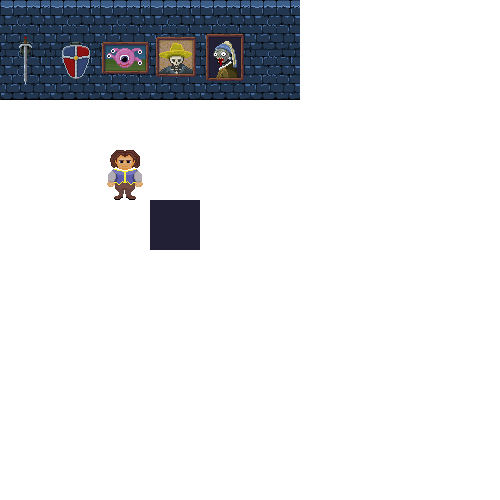
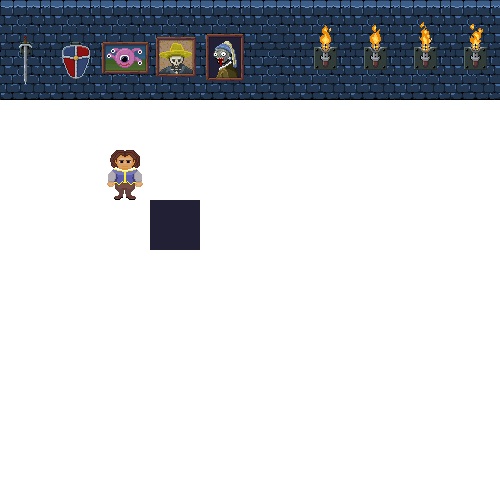
art: animated torch, code: add tile animation support

Changed region(s): [[0.6, 0.0, 1.0, 0.21]]

diff --git a/js/World.js b/js/World.js
@@ -9,8 +9,8 @@ var roomGrid =
   11,31,31,36,31, 0, 0, 0, 4,31,31,36,31,31,31,31,15, 0, 0, 0, 0, 0, 0, 0, 0, 0, 0, 0, 0, 0, 0, 0, 0, 0, 0, 0, 0, 0, 0, 0, 0, 0, 0, 0, 0, 0, 0, 0, 0, 0, 0, 0, 0, 0, 0, 0, 0, 0, 0, 0, 0, 0, 0, 9,
   11,32,32,37,32, 0, 0, 0, 0,32,32,37,32,32,32,32,15, 0, 0, 0, 0, 0, 0, 0, 0, 0, 0, 0, 0, 0, 0, 0, 0, 0, 0, 0, 0, 0, 0, 0, 0, 0, 0, 0, 0, 0, 0, 0, 0, 0, 0, 0, 0, 0, 0, 0, 0, 0, 0, 0, 0, 0, 0, 9,
   11,40, 0, 0, 0, 0, 0, 0, 0, 0, 0, 0, 0, 0, 0, 0,53, 0, 0, 0, 0, 0, 0, 0, 0, 0, 0, 0, 0, 0, 0, 9, 0, 0, 0, 0, 0, 0, 0, 0, 0, 0, 0, 0, 0, 0, 0, 0, 0, 0, 0, 0, 0, 0, 0, 0, 0, 0, 0, 0, 0, 0, 0, 9,
-  11,41,43,44, 1,59,55,24,57,43,44,16, 1,61, 1,63, 1, 0, 0, 0, 0, 0, 0, 0, 0, 0, 0, 0, 0, 0, 0, 9, 0, 0, 0, 0, 0, 0, 0, 0, 0, 0, 0, 0, 0, 0, 0, 0, 0, 0, 0, 0, 0, 0, 0, 0, 0, 0, 0, 0, 0, 0, 0, 9,
-  11,42,49,50,47,60,56,25,58,49,50,15,23,62,23,64,23, 0, 0, 0, 0, 0, 0, 0, 0, 0, 0, 0, 0, 0, 0, 9, 0, 0, 0, 0, 0, 0, 0, 0, 0, 0, 0, 0, 0, 0, 0, 0, 0, 0, 0, 0, 0, 0, 0, 0, 0, 0, 0, 0, 0, 0, 0, 9,
+  11,41,43,44, 1,59,55,24,57,43,44,16,65,61,65,63, 1, 0, 0, 0, 0, 0, 0, 0, 0, 0, 0, 0, 0, 0, 0, 9, 0, 0, 0, 0, 0, 0, 0, 0, 0, 0, 0, 0, 0, 0, 0, 0, 0, 0, 0, 0, 0, 0, 0, 0, 0, 0, 0, 0, 0, 0, 0, 9,
+  11,42,49,50,47,60,56,25,58,49,50,15,69,62,69,64,23, 0, 0, 0, 0, 0, 0, 0, 0, 0, 0, 0, 0, 0, 0, 9, 0, 0, 0, 0, 0, 0, 0, 0, 0, 0, 0, 0, 0, 0, 0, 0, 0, 0, 0, 0, 0, 0, 0, 0, 0, 0, 0, 0, 0, 0, 0, 9,
   11, 0,45,46,48,51, 0, 0, 0,46,46,15, 0, 0, 0, 0, 0, 0, 0, 0, 0, 0, 0, 0, 0, 0, 0, 0, 0, 0, 0, 9, 0, 0, 0, 0, 0, 0, 0, 0, 0, 0, 0, 0, 0, 0, 0, 0, 0, 0, 0, 0, 0, 0, 0, 0, 0, 0, 0, 0, 0, 0, 0, 9,
   11, 0, 0, 0, 0, 0, 0, 0, 0, 0, 0,15, 0, 0, 0, 0, 0, 0, 0, 0, 0, 0, 0, 0, 0, 0, 0, 0, 0, 0, 0, 9, 0, 0, 0, 0, 0, 0, 0, 0, 0, 0, 0, 0, 0, 0, 0, 0, 0, 0, 0, 0, 0, 0, 0, 0, 0, 0, 0, 0, 0, 0, 0, 9,
   11, 0, 0, 0, 0, 0, 0, 0, 0, 0, 0,15, 0, 0, 0, 0, 0, 0, 0, 0, 0, 0, 0, 0, 0, 0, 0, 0, 0, 0, 0, 9, 0, 0, 0, 0, 0, 0, 0, 0, 0, 0, 0, 0, 0, 0, 0, 0, 0, 0, 0, 0, 0, 0, 0, 0, 0, 0, 0, 0, 0, 0, 0, 9,
@@ -109,7 +109,11 @@ const TILE_DUNGEON_ART_4_TOP = 61;
 const TILE_DUNGEON_ART_4_BOTTOM = 62;
 const TILE_DUNGEON_ART_5_TOP = 63;
 const TILE_DUNGEON_ART_5_BOTTOM = 64;
-
+const TILE_TORCH_1 = 65;
+const TILE_TORCH_2 = 66;
+const TILE_TORCH_3 = 67;
+const TILE_TORCH_4 = 68;
+const TILE_TORCH_1_BOTTOM = 69;
 
 function roomTileToIndex(tileCol, tileRow) {
   return (tileCol + ROOM_COLS*tileRow);
@@ -201,7 +205,11 @@ function drawRoom() {
         canvasContext.drawImage(tilePics[TILE_WALL_16].img,350,0, 50, 50, tileLeftEdgeX, tileTopEdgeY, 50, 50);
       }
 
-      canvasContext.drawImage(tilePics[tileTypeHere].img,tile_sx,tile_sy, 50, 50, tileLeftEdgeX, tileTopEdgeY, 50, 50);
+      if (tileTypeHere==TILE_TORCH_1) {
+        animateTile(eachCol, eachRow, 5, [TILE_TORCH_1, TILE_TORCH_2, TILE_TORCH_3, TILE_TORCH_4]);
+      } else {
+        canvasContext.drawImage(tilePics[tileTypeHere].img,tile_sx,tile_sy, 50, 50, tileLeftEdgeX, tileTopEdgeY, 50, 50);
+      }
       
       // optionally draw some spooky eyes on the paintings
       if (tileTypeHere==TILE_DUNGEON_ART_4_BOTTOM) spookyEyes(tileLeftEdgeX+25,tileTopEdgeY+7,3);

diff --git a/js/animateTile.js b/js/animateTile.js
@@ -1,0 +1,27 @@
+// support to animate a tile
+
+/**
+ * animate a tile at given row/column
+ * @param {*} i - column index
+ * @param {*} j - row index
+ * @param {*} frameRate - ticks per frame
+ * @param {*} frames - array of tile types representing animation frames
+ */
+function animateTile(i,j, frameRate, frames) {
+    // determine local frame index
+    // -- frameIndex is global frame index set in Main.js
+    // -- global frame index is divided by frameRate, so that we will only change the local frame index once every X number of frames where X is the frameRate value
+    // -- value is mixed w/ value computed from row/value, so that all instances of an animation should not be synced
+    let idx = Math.floor(frameIndex/frameRate) + 64*j + i;
+    // -- take computed index and mod by the actual number of frames
+    idx = idx % frames.length;
+    // -- then look up the frame for that index
+    let which = frames[idx];
+    let x = i*TILE_W;
+    let y = j*TILE_H;
+    let sx = tilePics[which].imgX
+    let sy = tilePics[which].imgY;
+    // draw at position given
+    canvasContext.drawImage(tilePics[which].img, sx, sy, 50, 50, x, y, 50, 50);
+
+}

diff --git a/js/ImageLoading.js b/js/ImageLoading.js
@@ -103,6 +103,11 @@ function loadImages() {
     {tileType:TILE_DUNGEON_ART_4_BOTTOM, imgX: 150, imgY: 50, theFile:"dungeonArt.png"},
     {tileType:TILE_DUNGEON_ART_5_TOP, imgX: 200, imgY: 0, theFile:"dungeonArt.png"},
     {tileType:TILE_DUNGEON_ART_5_BOTTOM, imgX: 200, imgY: 50, theFile:"dungeonArt.png"},
+    {tileType:TILE_TORCH_1, imgX: 300, imgY: 0, theFile:"dungeonArt.png"},
+    {tileType:TILE_TORCH_2, imgX: 350, imgY: 0, theFile:"dungeonArt.png"},
+    {tileType:TILE_TORCH_3, imgX: 400, imgY: 0, theFile:"dungeonArt.png"},
+    {tileType:TILE_TORCH_4, imgX: 450, imgY: 0, theFile:"dungeonArt.png"},
+    {tileType:TILE_TORCH_1_BOTTOM, imgX: 300, imgY: 50, theFile:"dungeonArt.png"},
 
     ];
 

diff --git a/js/Main.js b/js/Main.js
@@ -3,6 +3,7 @@ var canvas, canvasContext;
 
 var p1 = new warriorClass();
 var pathFindingDisplay = false;
+var frameIndex = 0;
 
 const STATE_PLAY = 1;
 const STATE_PAUSE = 2;
@@ -62,4 +63,5 @@ function drawEverything() {
   if(gameState == STATE_PAUSE) {
     drawText('Paused', 600, 60, 32, 'yellow')
   }
+  frameIndex++;
 }

diff --git a/index.html b/index.html
@@ -22,6 +22,7 @@
 <script src="js/gridlayout.js"></script>
 <script src="js/gridelement.js"></script>
 <script src="js/spookyEyes.js"></script>
+<script src="js/animateTile.js"></script>
 <script src="js/Main.js"></script>
 
 </body>
